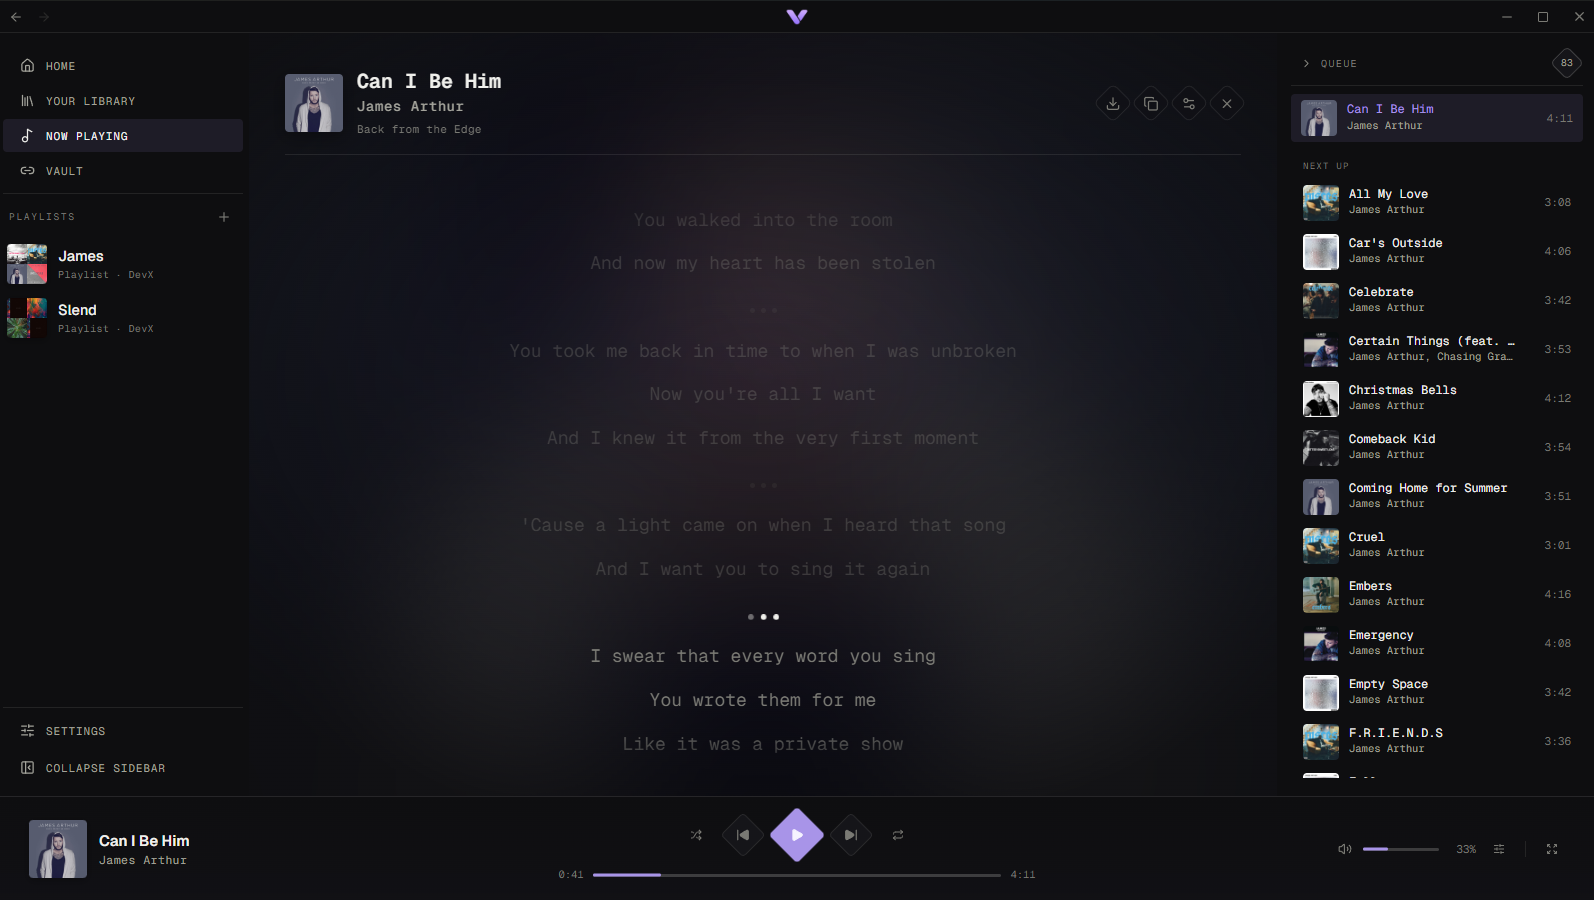
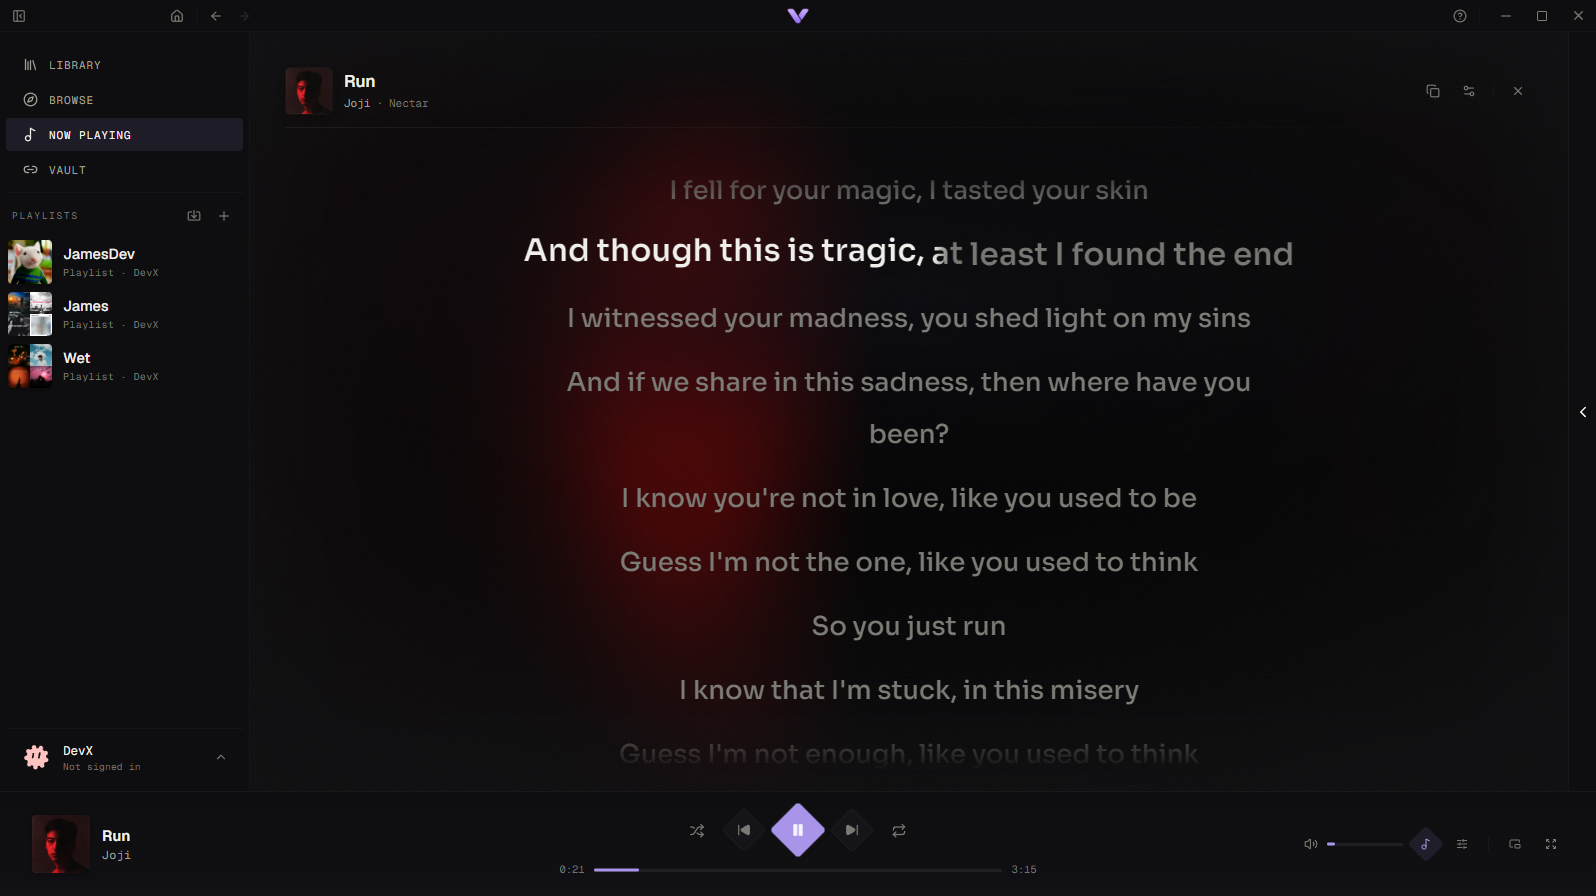
fix(site): refresh showcase screenshots and hide the empty-tab caret
Capture all screens fresh from the current build (Run playing) and drop
the unused vault shot, restyle the showcase arrows as inline SVGs, and
set caret-color: transparent on buttons so an empty focused dot tab no
longer renders a text caret.

diff --git a/site/src/styles/global.css b/site/src/styles/global.css
@@ -113,6 +113,7 @@ svg {
 button {
   font: inherit;
   color: inherit;
+  caret-color: transparent;
 }
 
 button,
